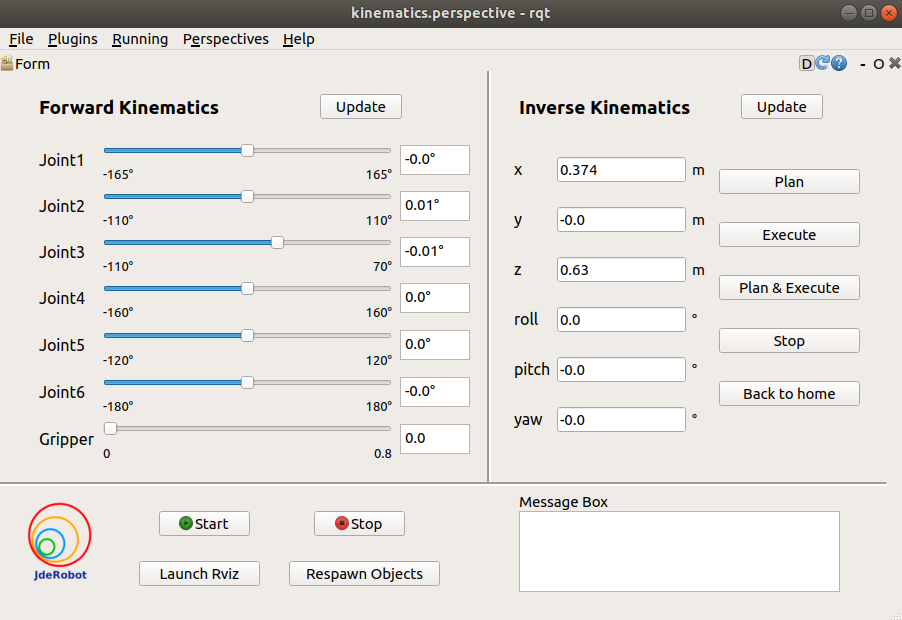
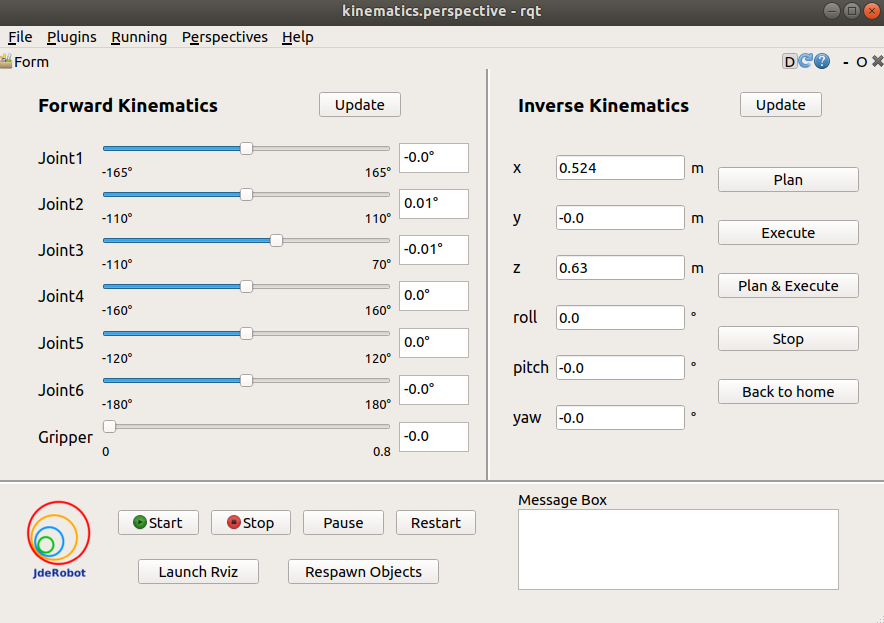
Update domcumentation of exercise one

diff --git a/docs/_posts/2020-07-02-draft_of_document_of_first_exercise.md b/docs/_posts/2020-07-02-draft_of_document_of_first_exercise.md
@@ -16,14 +16,14 @@ The goal of this exercise is to learn the underlying infrastructure of Industria
 sudo apt install ros-melodic-moveit
 sudo apt-get install ros-melodic-ros-control ros-melodic-ros-controllers
 ```
-3. Install Industrial Robot package(TO BE DONE)
+3. Install Industrial Robot package
 ```bash
 mkdir -p catkin_ws/src
 cd catkin_ws/src
 ```
 after pull request to the industrial robot repo
 ```bash
-git clone https://github.com/JdeRobot/IndustrialRobotics.git -b testing
+git clone https://github.com/JdeRobot/IndustrialRobotics.git -b pick_place_basic
 cd ..
 ```
 Update ROS dependencies
@@ -39,14 +39,14 @@ catkin build
 Export environment variables
 ```bash
 echo 'source '$PWD'/devel/setup.bash' >> ~/.bashrc
-echo 'export GAZEBO_MODEL_PATH=${GAZEBO_MODEL_PATH}:'$PWD'/src/models' >> ~/.bashrc
+echo 'export GAZEBO_MODEL_PATH=${GAZEBO_MODEL_PATH}:'$PWD'/src/IndustrialRobotics/industrial_robot/models' >> ~/.bashrc
 source ~/.bashrc
 ```
 
 ## How to run the exercise
 TO launch the exercise, open a terminal windows, navigate to the ROS workspace which contains Industrial Robot folder and execute following command:
 ```bash
-roslaunch irb120_robotiq85_gazebo industrial_robot.launch 
+roslaunch industrial_robot pick_place_basic.launch 
 ```
 Two different windows will pop up:
 - **Gazebo simulator**: A warehouse environment with a industrial robot(robot arm and gripper), multiple objects, a conveyor and two boxes will be shown in Gazebo.
@@ -60,25 +60,31 @@ Two different windows will pop up:
         - Back to home button can make the robot move back to home pose
     - Two update button can update the value of current robot state
     - Code Manager part
-        - Two buttons to start and stop the main code you program
+        - Four buttons to start, stop, pause and restart the main code you program
         - One button to launch Rviz
         - One button to Respawn all objects in Gazebo and Rviz
         - An info box showing the status of the main code("start" or "stop")
 
 ![GUI](https://raw.githubusercontent.com/TheRoboticsClub/colab-gsoc2020-Yijia_Wu/master/docs/img/newGUI.png){: .mx-auto.d-block :}
 
+Then open a new terminal window, navigate to `exercise` folder and execute following command:
+```bash
+python MyAlgorithm.py
+```
+
 ## How should I solve the exercise
 To solve the exercise, you must edit the MyAlgorithm.py file and insert control logic in myalgorithm() function. The path of this file is "src/rqt_kinematics/src/rqt_kinematics/interfaces/MyAlgorithm.py" inside the catkin_ws folder.
 ```python
-def myalgorithm(self, event):
+def myalgorithm(self, stopevent, pauseevent):
 	############## Insert your code here ###############
     # Move the robot back to home as a start
     self.pick_place.back_to_home()
 	
-    # insert following two lines where you want to stop the algorithm 
+    # insert following two lines where you want to pause or stop the algorithm 
     # with the stop button in GUI
-    if not event.isSet():
-        return
+    while (not self.pauseevent.isSet()) or (not self.stopevent.isSet()):
+        if not self.stopevent.isSet():
+            return
 
     ##### A brief example to pick and place object "blue_ball" #####
     object_name = "blue_ball"
@@ -87,15 +93,19 @@ def myalgorithm(self, event):
 
     # generate grasp message and pick it up
     # parameters WIDTH and LENGTH need to be tuned according to the object and grasping pose
-    grasp = self.pick_place.generate_grasp("vertical", pose.position, WIDTH, length=LENGTH)
+    WIDTH = 0.3
+    LENGTH = 0.15
+    grasp = self.pick_place.generate_grasp(object_name, "vertical", pose.position, WIDTH, length=LENGTH)
     self.pick_place.pickup(object_name, [grasp])
 
     # setup stop signal detector
-    if not event.isSet():
-        return
+    while (not self.pauseevent.isSet()) or (not self.stopevent.isSet()):
+        if not self.stopevent.isSet():
+            return
 
     # choose target position and place the object
-    place_position = ...
+    target_name = "blue_target"
+    place_position = self.pick_place.place(target_name)
     self.pick_place.place("vertical", place_position)
 
 	####################################################
@@ -106,12 +116,18 @@ Multiple APIs can be used to implement your algorithm. They are provided in Pick
 ### Environment Information
 * `get_object_list()` - Return the name list of all objects.
 * `get_object_pose(object_name)` - Return the pose of the object.
-* `get_object_info(object_name)` - Return the pose, shape, height, eidth, length, color of the object.
+* `get_object_info(object_name)` - Return the pose, height, eidth, length, shape, color of the object in order.
 * `get_target_list()` - Return the name list of all targets.
 * `get_target_position(target_name)` - Return the position of target where we are going to place the objects.
 
+### Convert Pose Message
+* `pose2msg(roll, pitch, yaw, x, y, z)` - Convert pose to Pose message. The unit of roll, pitch, yaw is radian.
+* `pose2msg_deg(roll, pitch, yaw, x, y, z)` - Convert pose to Pose message. The unit of roll, pitch, yaw is degree.
+* `msg2pose(pose)` - Convert Pose message to pose, return roll, pitch, yaw, x, y, z in order. The unit of roll, pitch, yaw is radian.
+* `msg2pose_deg(pose)` - Convert Pose message to pose, return roll, pitch, yaw, x, y, z in order. The unit of roll, pitch, yaw is degree.
+
 ### Basic Robot Movement
-* `move_pose_arm(pose_goal)` - Command the robot to make its end effector frame move to the desired pose with inverse kinematics.
+* `move_pose_arm(pose_goal)` - Command the robot with Pose message to make its end effector frame move to the desired pose with inverse kinematics.
 * `move_joint_arm(joint_0,joint_1,joint_2,joint_3,joint_4,joint_5)` - Command the robot joints to move to desired joints value
 * `move_joint_hand(joint_value)` - Command the gripper joint to move to desired joint value.
 * `back_to_home()` - Command the robot arm and gripper to move back to the home pose.
@@ -126,14 +142,14 @@ Multiple APIs can be used to implement your algorithm. They are provided in Pick
     - `position` is the position of the end effector when grasping the object
     - `width` is the value the gripper joints should move to grasp the object with a range of [0, 0.8]. If you keep the default value 0, the `eef_orientation` is `horizontal` or `vertical` and the default rpy angle values are kept, this width value will be set depend on the object width.
     - `roll`,`pitch`,`yaw` are optional parameters.
-    - `length` is the offset length from the your desired gripper position to robot tool center. When you input grasping pose, you are specifying the pose of the desired gripper position. The default value is 0, which means you are specifying the pose of the tool center of the robot arm when the robot is grasping the object. More details will be discussed in Theory and Hint Sections.
+    - `length` is the offset length from the your desired gripper position to robot tool center. When you input grasping pose, you are specifying the pose of the desired gripper position. The default value is 0, which means you are specifying the pose of the tool center of the robot arm when the robot is grasping the object.
 
 The default minimum grasp distance and desired distance are set to be 0.2(m) and 0.1(m). The default approach direction is set to be (0, 0, -0.5). You can keep them or modify them with following functions:
 * `set_grasp_distance(min_distance, desired_distance)` - Set the minmum distance and desired distance the gripper translates before and after grasping.
 * `set_grasp_direction(x, y, z)` - Set the direction of the gripper approach translation before grasping. Retreat translation distance will set to be the opposite direction of the approach direction.
 
 ### Pick and Place
-* `pickup(object_name, grasps)` - Command the industrial robot to pick up the object with the genrated Grasp messages.
+* `pickup(object_name, grasps)` - Command the industrial robot to pick up the object with a list of genrated Grasp messages.
 * `place(eef_orientation, position[, roll, pitch, yaw])` - Command the industrial robot to place the currently holding object to goal_position with desired end effector orientation.
     - `eef_orientaion` is to clarify the desired end effector orientation. 
         - `horizontal`: grasp the object with a horizontal gripper orientation. (default value: roll = 0, pitch = 0, yaw = 180°. `pitch` is setable.)
@@ -160,6 +176,18 @@ By contrast, orientation is harder to describe. There are many different methods
 Roll, pitch, yaw are rotation angles around x, y, z axis. They are applied in order, such as x-y-z or z-y-x. Usually we use the new frame after each rotation as the new reference frame, but in [tf](http://wiki.ros.org/tf), a ROS library for managing coordinate frames, they choose static x-y-z euler angle as default method, which means each rotation will be applied with respect to(w.r.t.) the static original reference frame. Thus, in this exercise, roll, pitch, yaw will be applied in this x-y-z order w.r.t. the robot frame.
 
 When you use the inverse kinematic tool in GUI, sometimes you will see that the input desired orientation is much different from the final orientation values, position also has tiny difference. The reason for the tiny difference is that when the difference between final pose and desired pose is within a given range, controller will stop. The reason for the large difference in orientation is that there are some other expressions that can also describe this orientation correctly.
+
+**roll = 0, pitch = 0, yaw = 0**  
+![rpy000](https://raw.githubusercontent.com/TheRoboticsClub/colab-gsoc2020-Yijia_Wu/master/docs/img/rpy000.png){: .mx-auto.d-block :}
+
+**roll = 90, pitch = 0, yaw = 0**  
+![roll90](https://raw.githubusercontent.com/TheRoboticsClub/colab-gsoc2020-Yijia_Wu/master/docs/img/roll90.png){: .mx-auto.d-block :}
+
+**roll = 0, pitch = 90, yaw = 0**  
+![pitch90](https://raw.githubusercontent.com/TheRoboticsClub/colab-gsoc2020-Yijia_Wu/master/docs/img/pitch90.png){: .mx-auto.d-block :}
+
+**roll = 0, pitch = 0, yaw = 90**  
+![yaw90](https://raw.githubusercontent.com/TheRoboticsClub/colab-gsoc2020-Yijia_Wu/master/docs/img/yaw90.png){: .mx-auto.d-block :}
 
 ### Forward Kinematics and Inverse Kinematics
 Forward kinematics is given the value of each joints, to find the pose of the end effector. The pose is unique.  
